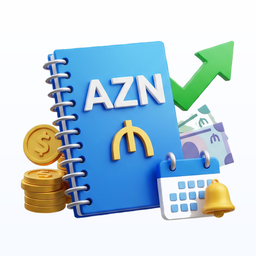
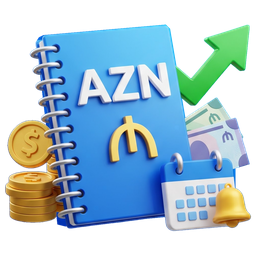
My Finance™ 3.1.3 Rev. 008: yeni 3D AZN-dəftər ikonu, fonu tam şəffaf
Claude-Session: https://claude.ai/code/session_01QbV9JzFukqu1Y6KzW6VSLq

diff --git a/emin/assets/app.js b/emin/assets/app.js
@@ -1,6 +1,6 @@
 'use strict';
 // My Finance™ — Kassa, Nisyə Dəftəri və Borclar
-const APP_VERSION = '3.1.3 Rev. 007';
+const APP_VERSION = '3.1.3 Rev. 008';
 const APP_NAME = 'My Finance™';
 const hasNative = typeof window.Android !== 'undefined';
 const C = window.MF;
